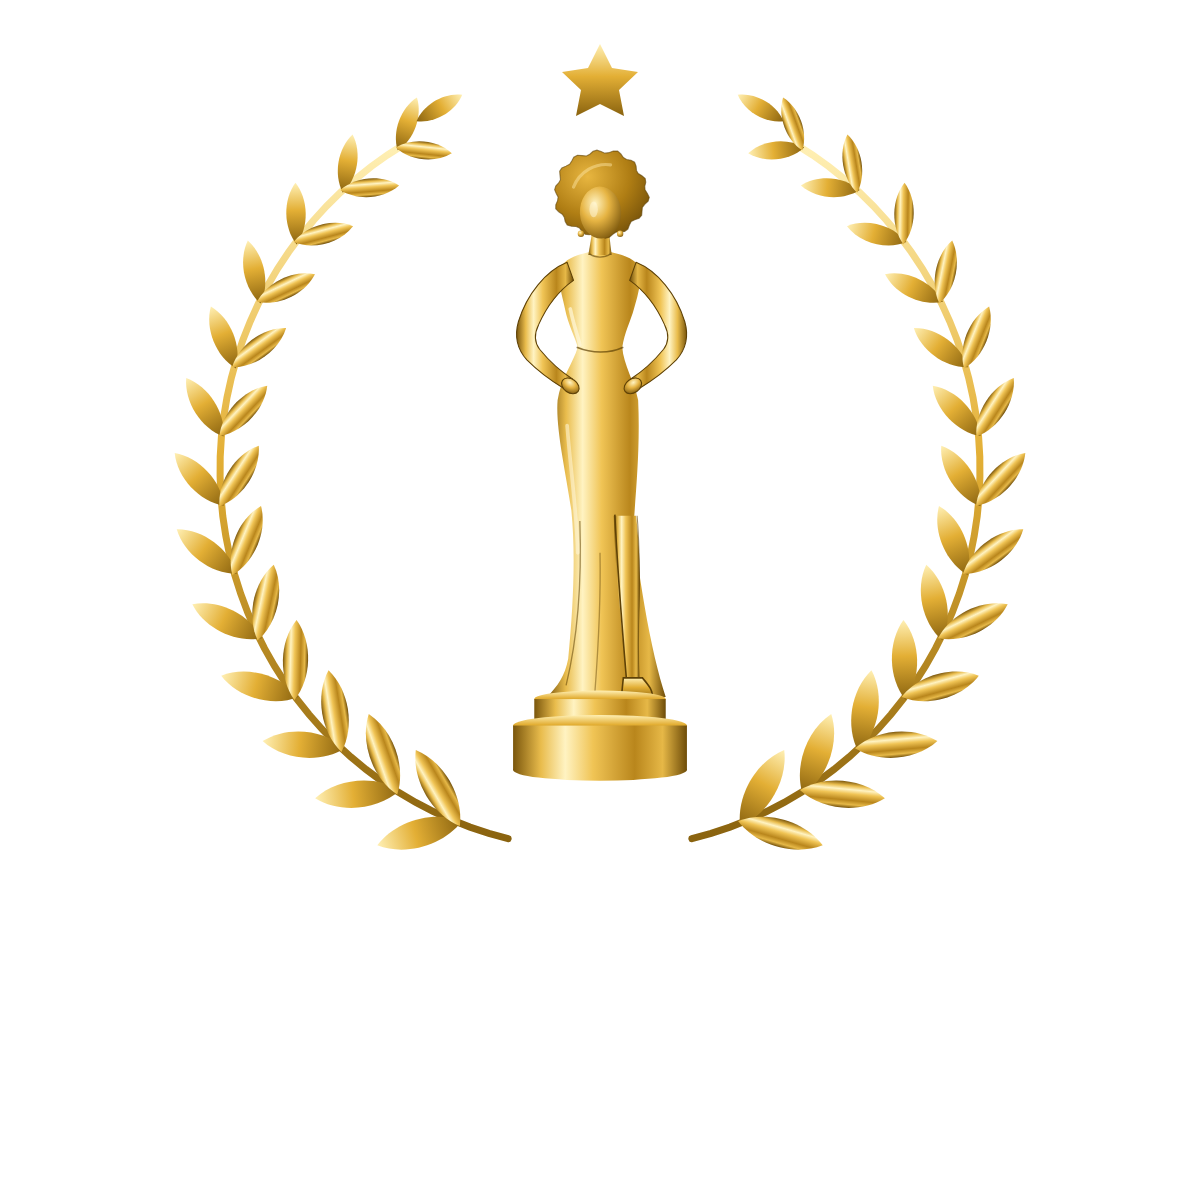
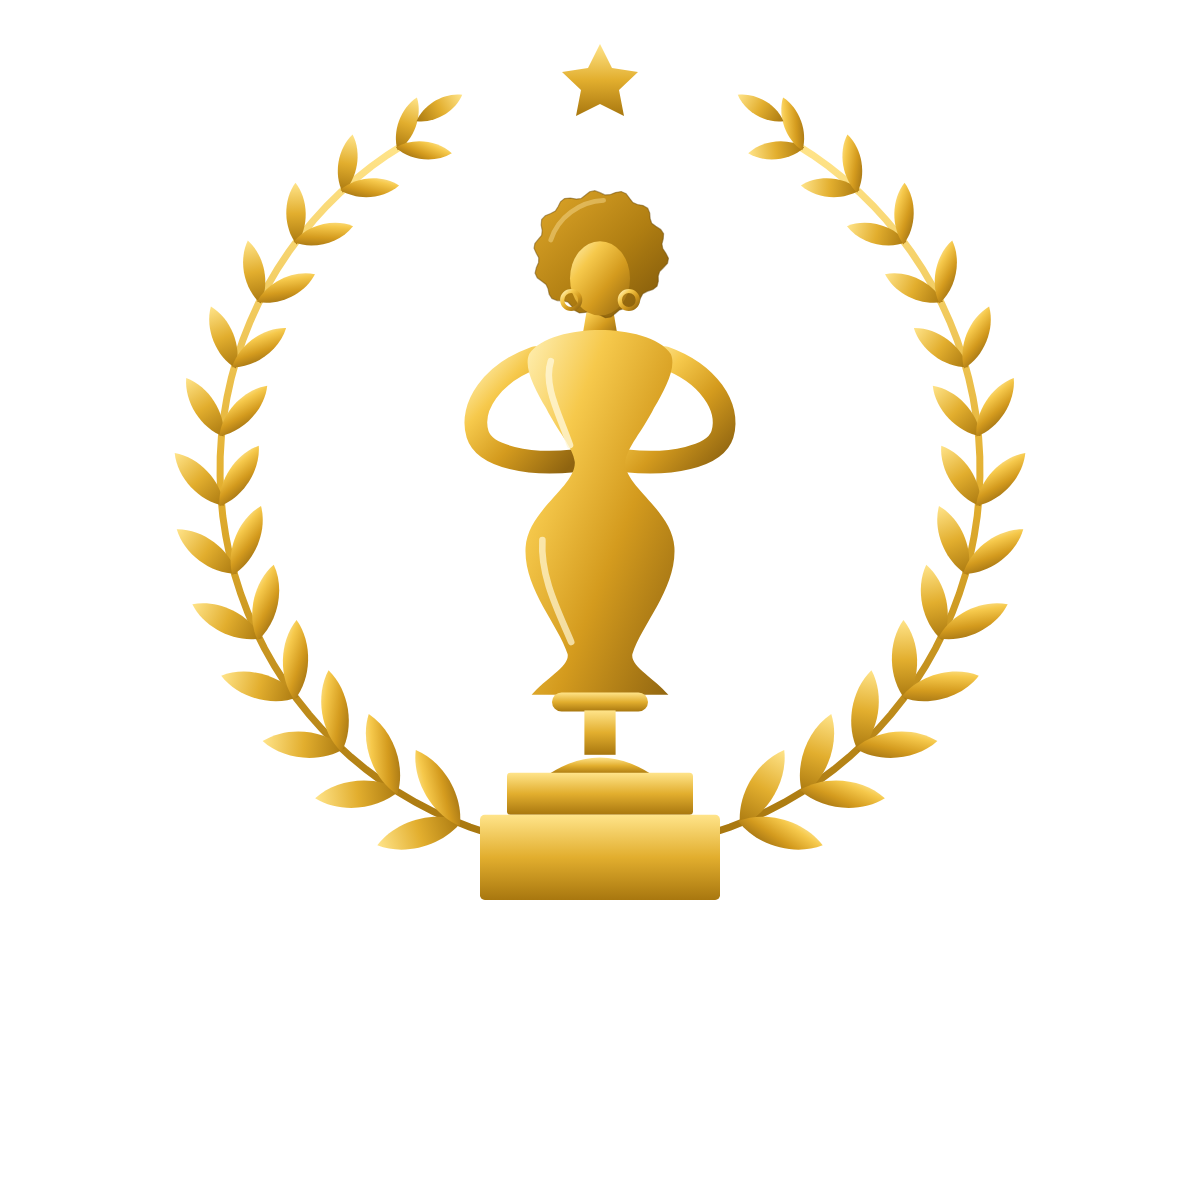
Walking Trophy: back to first design with curly afro, plain gold base (no plaque), laurel-crest front
Claude-Session: https://claude.ai/code/session_01Mt1Tg1SJuTeW2M8JbNNqgf

diff --git a/walking-trophy-tee/tools/build-design.js b/walking-trophy-tee/tools/build-design.js
@@ -1,13 +1,47 @@
-// WALKING TROPHY tee v2: realistic walking-woman statuette (afro, gown) on the back; laurel crest on the front.
+// Walking Trophy tee - back (title + woman-shaped trophy) and front left-chest mark.
 const fs = require('fs'); const { chromium } = require('playwright');
-const { METAL, figure } = require('./figure.js');
 const F = process.env.FONTS_DIR || __dirname + '/fonts', OUT = process.env.OUT || '/home/user/Falasha/walking-trophy-tee';
 const b64 = f => fs.readFileSync(f).toString('base64');
-const font = (fam, w, file) => `@font-face{font-family:${fam};font-weight:${w};src:url(data:font/woff2;base64,${b64(`${F}/${file}`)})}`;
-const css = font('GV', 400, 'fontsource-great-vibes-5.3.0/package/files/great-vibes-latin-400-normal.woff2')
-  + font('CG', 700, 'fontsource-cormorant-garamond-5.3.0/package/files/cormorant-garamond-latin-700-normal.woff2')
-  + font('CG', 600, 'fontsource-cormorant-garamond-5.3.0/package/files/cormorant-garamond-latin-600-normal.woff2');
-const sparkle = (x, y, s) => `<path transform="translate(${x} ${y}) scale(${s})" d="M0 -50 C5 -9 9 -5 50 0 C9 5 5 9 0 50 C-5 9 -9 5 -50 0 C-9 -5 -5 -9 0 -50 Z" fill="url(#metalV)"/>`;
+const css = `@font-face{font-family:GV;src:url(data:font/woff2;base64,${b64(`${F}/fontsource-great-vibes-5.3.0/package/files/great-vibes-latin-400-normal.woff2`)})}
+@font-face{font-family:PF;font-weight:900;src:url(data:font/woff2;base64,${b64(`${F}/fontsource-playfair-display-5.3.0/package/files/playfair-display-latin-900-normal.woff2`)})}
+@font-face{font-family:PF;font-weight:700;src:url(data:font/woff2;base64,${b64(`${F}/fontsource-playfair-display-5.3.0/package/files/playfair-display-latin-700-normal.woff2`)})}`;
+const GOLD = `<linearGradient id="gold" x1="0" y1="0" x2="1" y2="1">
+  <stop offset="0" stop-color="#FFF1B8"/><stop offset=".28" stop-color="#F6C94C"/><stop offset=".6" stop-color="#D49B1E"/><stop offset="1" stop-color="#8F6410"/></linearGradient>
+ <linearGradient id="goldV" x1="0" y1="0" x2="0" y2="1">
+  <stop offset="0" stop-color="#FFE48A"/><stop offset=".5" stop-color="#E2AE2E"/><stop offset="1" stop-color="#A8770F"/></linearGradient>
+ <linearGradient id="goldDeep" x1="0" y1="0" x2="1" y2="1">
+  <stop offset="0" stop-color="#E0A82A"/><stop offset=".55" stop-color="#B07E12"/><stop offset="1" stop-color="#7A540A"/></linearGradient>`;
+// Woman-shaped trophy in a 1000 x 1400 box.
+const trophy = (plaqueInk, plaqueText = true) => `
+ <g id="trophy">
+  <!-- arms on hips = the trophy handles -->
+  <path d="M392 346 C320 372 282 428 296 474 C308 512 384 526 456 518" fill="none" stroke="url(#gold)" stroke-width="38" stroke-linecap="round"/>
+  <path d="M608 346 C680 372 718 428 704 474 C692 512 616 526 544 518" fill="none" stroke="url(#gold)" stroke-width="38" stroke-linecap="round"/>
+  <!-- afro (deeper gold), face, hoop earrings, neck -->
+  <path d="M480 255 L520 255 L530 314 L470 314 Z" fill="url(#gold)"/>
+  <path d="M609.8,172.0 L614.1,180.5 L612.6,188.8 L606.0,196.0 L599.4,202.5 L597.0,209.9 L597.2,218.8 L595.1,227.1 L588.2,232.5 L578.8,235.6 L571.4,239.5 L567.6,246.7 L564.5,255.8 L558.7,262.5 L549.9,264.5 L540.5,264.3 L532.5,266.5 L525.5,272.4 L517.8,278.4 L509.0,279.4 L500.0,275.1 L491.8,270.0 L483.8,268.6 L474.9,270.7 L465.8,271.5 L458.2,267.4 L452.6,259.8 L447.0,253.7 L438.9,251.4 L428.7,250.9 L419.9,247.7 L415.3,240.4 L413.5,231.4 L410.2,224.0 L403.2,218.6 L395.4,212.9 L391.8,205.2 L393.9,196.1 L397.7,187.3 L397.9,179.6 L393.8,172.0 L390.1,163.8 L391.5,155.8 L397.4,148.7 L402.8,142.2 L403.7,134.3 L402.0,124.9 L402.8,115.7 L408.8,109.5 L417.9,105.8 L425.6,101.7 L430.1,94.7 L434.2,86.4 L440.9,80.9 L450.5,80.2 L460.5,81.8 L468.6,80.8 L475.5,75.5 L482.8,69.6 L491.3,67.9 L500.0,71.1 L508.1,74.8 L516.4,74.5 L525.7,71.0 L535.4,69.2 L543.5,72.9 L549.3,80.6 L554.8,87.5 L562.5,90.8 L571.8,92.6 L579.5,96.9 L582.9,105.2 L583.6,114.6 L586.2,122.1 L593.0,127.2 L601.3,132.4 L606.0,139.5 L605.4,148.1 L603.2,156.6 L604.6,164.2 Z" fill="url(#goldDeep)" stroke="#6E4C08" stroke-width="2" stroke-opacity=".5"/>
+  <path d="M418 150 C430 112 466 86 506 84" fill="none" stroke="#FFE9A8" stroke-width="8" stroke-linecap="round" opacity=".4"/>
+  <ellipse cx="500" cy="214" rx="50" ry="62" fill="url(#gold)"/>
+  <circle cx="452" cy="250" r="15" fill="none" stroke="url(#gold)" stroke-width="7"/>
+  <circle cx="548" cy="250" r="15" fill="none" stroke="url(#gold)" stroke-width="7"/>
+  <!-- figure: shoulders, bust, waist, hips, gown with flared hem -->
+  <path d="M500 300 C455 300 400 312 382 340 C372 362 392 400 410 430 C430 470 455 495 458 520
+           C460 560 380 600 376 662 C372 730 430 790 446 840 C450 860 410 880 386 908 L614 908
+           C590 880 550 860 554 840 C570 790 628 730 624 662 C620 600 540 560 542 520
+           C545 495 570 470 590 430 C608 400 628 362 618 340 C600 312 545 300 500 300 Z" fill="url(#gold)"/>
+  <!-- shine -->
+  <path d="M418 352 C405 392 432 440 450 492" fill="none" stroke="#FFF6D6" stroke-width="11" stroke-linecap="round" opacity=".8"/>
+  <path d="M404 650 C400 712 432 772 452 820" fill="none" stroke="#FFF6D6" stroke-width="11" stroke-linecap="round" opacity=".7"/>
+  
+  <!-- collar, stem, foot -->
+  <rect x="420" y="904" width="160" height="32" rx="16" fill="url(#goldV)"/>
+  <rect x="474" y="934" width="52" height="74" fill="url(#goldV)"/>
+  <path d="M415 1040 Q500 985 585 1040 Z" fill="url(#goldV)"/>
+  <!-- two-tier base with plaque -->
+  <rect x="345" y="1038" width="310" height="70" rx="6" fill="url(#goldV)"/>
+  <rect x="300" y="1108" width="400" height="142" rx="8" fill="url(#goldV)"/>
+ </g>`;
+const sparkle = (x, y, s) => `<path transform="translate(${x} ${y}) scale(${s})" d="M0 -50 C6 -10 10 -6 50 0 C10 6 6 10 0 50 C-6 10 -10 6 -50 0 C-10 -6 -6 -10 0 -50 Z" fill="url(#gold)"/>`;
 // laurel wreath: two branches rising from the bottom, open at the top, pointed leaves in pairs
 function laurel(cx, cy, r, leaf = 44) {
   const leafPath = (L) => `M0 ${-L} C${L*.42} ${-L*.45} ${L*.42} ${L*.45} 0 ${L} C${-L*.42} ${L*.45} ${-L*.42} ${-L*.45} 0 ${-L} Z`;
@@ -15,7 +49,7 @@ function laurel(cx, cy, r, leaf = 44) {
   for (const side of [-1, 1]) {
     const pts = [];
     for (let d = 14; d <= 150; d += 3) { const t = d * Math.PI / 180; pts.push(`${(cx + side * r * Math.sin(t)).toFixed(1)},${(cy + r * Math.cos(t)).toFixed(1)}`); }
-    stems += `<polyline points="${pts.join(' ')}" fill="none" stroke="url(#metalV)" stroke-width="7" stroke-linecap="round"/>`;
+    stems += `<polyline points="${pts.join(' ')}" fill="none" stroke="url(#goldV)" stroke-width="7" stroke-linecap="round"/>`;
     for (let i = 0; i < 13; i++) {
       const d = 22 + i * 10.5, t = d * Math.PI / 180;
       const px = cx + side * r * Math.sin(t), py = cy + r * Math.cos(t);
@@ -24,43 +58,41 @@ function laurel(cx, cy, r, leaf = 44) {
       for (const k of [-1, 1]) {                                                    // outer / inner leaf
         const rot = tang + k * 38;
         const rr = rot * Math.PI / 180, ox = Math.sin(rr) * L * 0.9, oy = -Math.cos(rr) * L * 0.9;
-        leaves += `<path d="${leafPath(L)}" transform="translate(${(px + ox).toFixed(1)} ${(py + oy).toFixed(1)}) rotate(${rot.toFixed(1)})" fill="url(#${k > 0 ? 'metal' : 'metalV'})"/>`;
+        leaves += `<path d="${leafPath(L)}" transform="translate(${(px + ox).toFixed(1)} ${(py + oy).toFixed(1)}) rotate(${rot.toFixed(1)})" fill="url(#${k > 0 ? 'gold' : 'goldV'})"/>`;
       }
     }
     // tip leaf
     const t = 155 * Math.PI / 180, px = cx + side * r * Math.sin(t), py = cy + r * Math.cos(t);
-    leaves += `<path d="${leafPath(leaf * .6)}" transform="translate(${px.toFixed(1)} ${(py - leaf*.4).toFixed(1)}) rotate(${-side * 60})" fill="url(#metalV)"/>`;
+    leaves += `<path d="${leafPath(leaf * .6)}" transform="translate(${px.toFixed(1)} ${(py - leaf*.4).toFixed(1)}) rotate(${-side * 60})" fill="url(#goldV)"/>`;
   }
   return stems + leaves;
 }
-// BACK: 12" x 16" @300dpi
-const back = (ink) => `<svg id="s" xmlns="http://www.w3.org/2000/svg" viewBox="0 0 3600 4800"><defs>${METAL}</defs>
-  <text x="1800" y="640" text-anchor="middle" font-family="GV" font-size="680" fill="${ink}">Walking</text>
-  <text x="1800" y="1130" text-anchor="middle" font-family="CG" font-weight="700" font-size="470" letter-spacing="120" fill="url(#metalV)">TROPHY</text>
-  <g transform="translate(1800 1235)"><rect x="-560" y="-5" width="440" height="10" fill="url(#metalV)"/><rect x="120" y="-5" width="440" height="10" fill="url(#metalV)"/>
-   <path d="M0 -34 L34 0 L0 34 L-34 0 Z" fill="url(#metalV)"/></g>
-  <g transform="translate(1050 1440) scale(2.5)">${figure('#1')}</g>
-  ${sparkle(820, 1900, 1.8)}${sparkle(2760, 2150, 2.4)}${sparkle(2520, 1650, 1.2)}${sparkle(1000, 2750, 1.1)}${sparkle(2700, 3300, 1.2)}
+// BACK: 12" x 16" print area @300dpi = 3600 x 4800
+const back = (ink, plaqueInk) => `<svg id="s" xmlns="http://www.w3.org/2000/svg" viewBox="0 0 3600 4800"><defs>${GOLD}</defs>
+  <text x="1800" y="500" text-anchor="middle" font-family="PF" font-weight="900" font-size="440" letter-spacing="40" fill="${ink}">WALKING</text>
+  <text x="1800" y="1010" text-anchor="middle" font-family="PF" font-weight="900" font-size="560" letter-spacing="30" fill="url(#gold)">TROPHY</text>
+  <rect x="1150" y="1130" width="1300" height="14" fill="url(#gold)"/>
+  <g transform="translate(500 1330) scale(2.6)">${trophy(plaqueInk)}</g>
+  ${sparkle(820, 1800, 2.0)}${sparkle(2780, 2050, 2.6)}${sparkle(2520, 1560, 1.3)}${sparkle(1000, 2650, 1.2)}${sparkle(2700, 3150, 1.3)}
 </svg>`;
-// FRONT left chest: 4" x 4" @300dpi - laurel crest around the statuette, script name beneath
-const front = (ink) => `<svg id="s" xmlns="http://www.w3.org/2000/svg" viewBox="0 0 1200 1200"><defs>${METAL}</defs>
+// FRONT left chest: 4" x 4" @300dpi - laurel crest around the trophy, script name beneath
+const front = (ink, plaqueInk) => `<svg id="s" xmlns="http://www.w3.org/2000/svg" viewBox="0 0 1200 1200"><defs>${GOLD}</defs>
   ${laurel(600, 470, 380)}
-  <g transform="translate(600 150) scale(0.53) translate(-300 0)">${figure()}</g>
-  <path d="M600 44 L612 68 L638 72 L619 90 L624 116 L600 104 L576 116 L581 90 L562 72 L588 68 Z" fill="url(#metalV)"/>
+  <g transform="translate(600 150) scale(0.6) translate(-500 0)">${trophy(plaqueInk, true)}</g>
+  <path d="M600 44 L612 68 L638 72 L619 90 L624 116 L600 104 L576 116 L581 90 L562 72 L588 68 Z" fill="url(#goldV)"/>
   <text x="600" y="1080" text-anchor="middle" font-family="GV" font-size="190" fill="${ink}">Walking Trophy</text>
 </svg>`;
-const variants = { 'dark-shirts': '#FFFFFF', 'light-shirts': '#141414' };
+const variants = { 'dark-shirts': ['#FFFFFF', '#141414'], 'light-shirts': ['#141414', '#141414'] };
 (async () => {
   const b = await chromium.launch(); const p = await b.newPage();
-  for (const f of fs.readdirSync(`${OUT}/files`)) fs.unlinkSync(`${OUT}/files/${f}`);
   const shot = async (html, w, h, path) => {
     await p.setViewportSize({ width: w, height: h });
     await p.setContent(`<style>${css}html,body{margin:0;background:transparent}#s{display:block;width:${w}px;height:${h}px}</style>${html}`);
     await p.evaluate(() => document.fonts.ready); await p.screenshot({ path, omitBackground: true });
   };
-  for (const [n, ink] of Object.entries(variants)) {
-    await shot(back(ink), 3600, 4800, `${OUT}/files/PRINTFUL-BACK_${n}.png`);
-    await shot(front(ink), 1200, 1200, `${OUT}/files/PRINTFUL-FRONT-left-chest_${n}.png`);
+  for (const [n, [ink, pl]] of Object.entries(variants)) {
+    await shot(back(ink, pl), 3600, 4800, `${OUT}/files/PRINTFUL-BACK_${n}.png`);
+    await shot(front(ink, pl), 1200, 1200, `${OUT}/files/PRINTFUL-FRONT-left-chest_${n}.png`);
   }
   await b.close();
 })();

diff --git a/walking-trophy-tee/README.md b/walking-trophy-tee/README.md
@@ -4,18 +4,16 @@ Blank: Printful women's relaxed t-shirt, Bella+Canvas 6400. Printing: DTG (direc
 
 ## Design
 **Back:**
-- **Headline:** "*Walking*" in an elegant white script (black on light shirts), above "T R O P H Y" in spaced gold capitals, with a thin gold divider.
-- **Trophy:** a polished gold statuette of a woman:
-  - She has an afro and drop earrings.
-  - Both hands are on her hips, so her arms form the two loops of a trophy's handles.
-  - She wears a fitted gown, with one leg stepping forward through a slit.
-- **Base:** she stands on a round two-tier trophy base with a black **#1** plaque, with gold sparkles around her.
+- **Headline:** "WALKING" in white (black on light shirts), and "TROPHY" in gold, in bold Playfair Display capitals, with a gold underline.
+- **Trophy:** an all-gold trophy shaped like a woman:
+  - Curly afro and hoop earrings.
+  - Both hands on her hips, so her arms form the trophy's two handle loops.
+  - An hourglass figure that becomes the cup, and a gown that narrows into the stem.
+- **Base:** a plain two-tier gold base, with no plaque or text, and gold sparkles around her.
 
-**Front (left chest):** a gold crest.
-- A laurel wreath frames the same statuette, with a small star at the top of the wreath.
-- *Walking Trophy* is written underneath in the same script as the back headline.
+**Front (left chest):** a gold laurel-wreath crest around the same trophy, with a small star at the top of the wreath and *Walking Trophy* in an elegant script underneath.
 
-Fonts: Great Vibes (script) and Cormorant Garamond (capitals), both SIL Open Font License, free for commercial use.
+Fonts: Playfair Display and Great Vibes, both SIL Open Font License, free for commercial use.
 
 ## Files
 ### Print files (`files/`, transparent PNG, 300 DPI)
@@ -43,7 +41,7 @@ Fonts: Great Vibes (script) and Cormorant Garamond (capitals), both SIL Open Fon
 **Title:** Walking Trophy Shirt, Women's Relaxed Tee, Gold Trophy Graphic, Confidence Shirt, Self Love Gift, Black Woman Empowerment Tee
 
 **Description:**
-She doesn't need an award, she *is* the award. This Walking Trophy tee has a gold statuette of a woman, with her afro, gown and hands on hips, on a #1 trophy base on the back. On the front is a gold laurel crest.
+She doesn't need an award, she *is* the award. This Walking Trophy tee has a gold trophy on the back shaped like a woman, with her afro, curves and hands on her hips. On the front is a gold laurel crest.
 - Bella+Canvas 6400 women's relaxed fit, soft 100% cotton (heathers are cotton blend)
 - Printed front and back
 - Made to order
